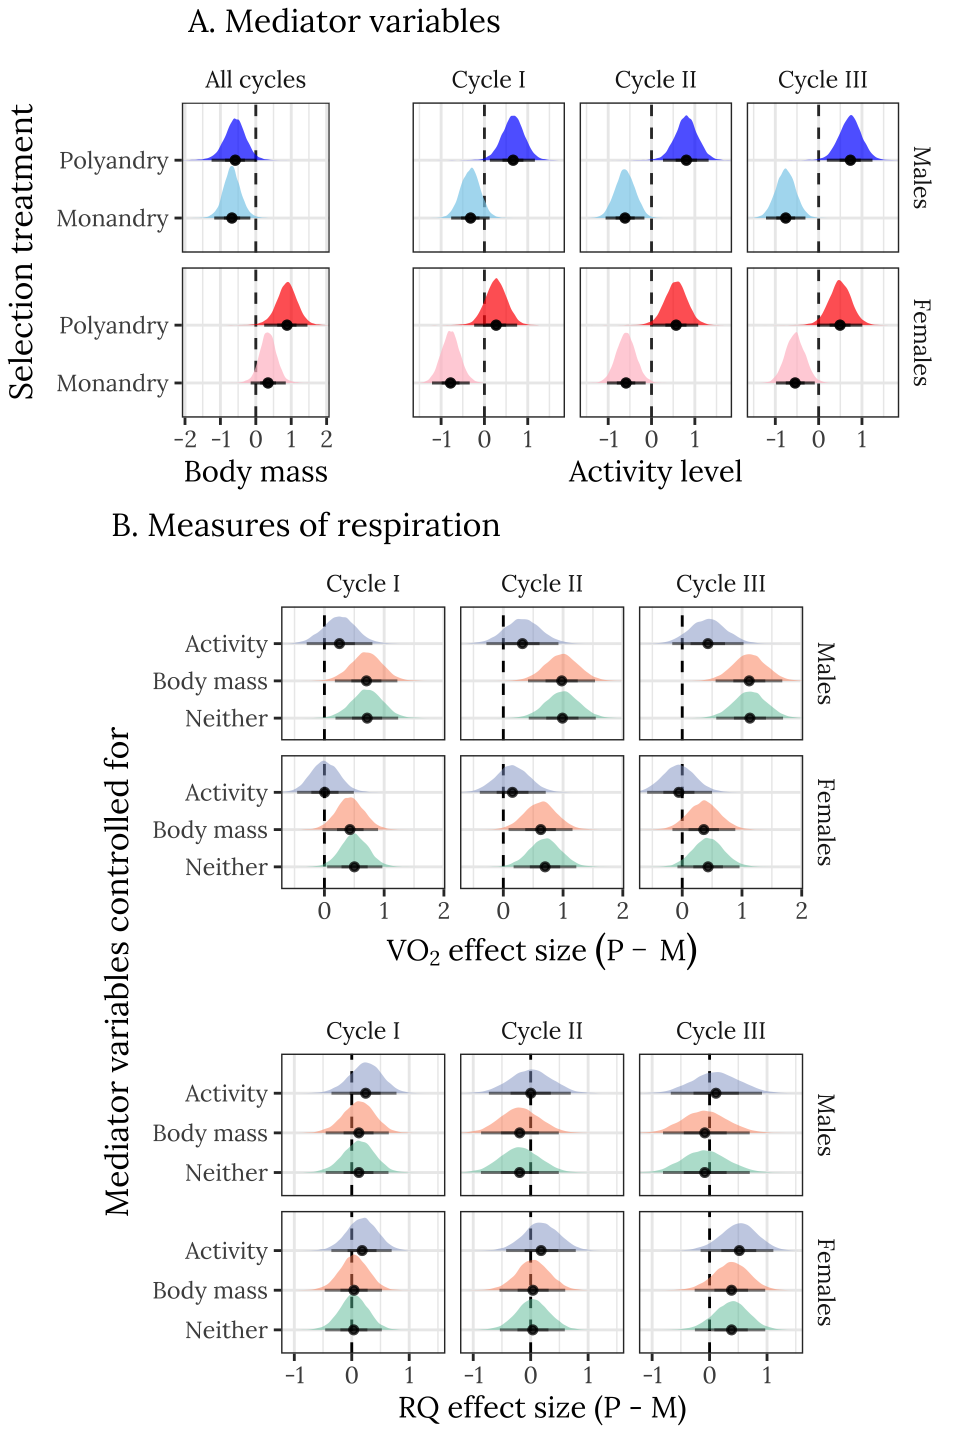
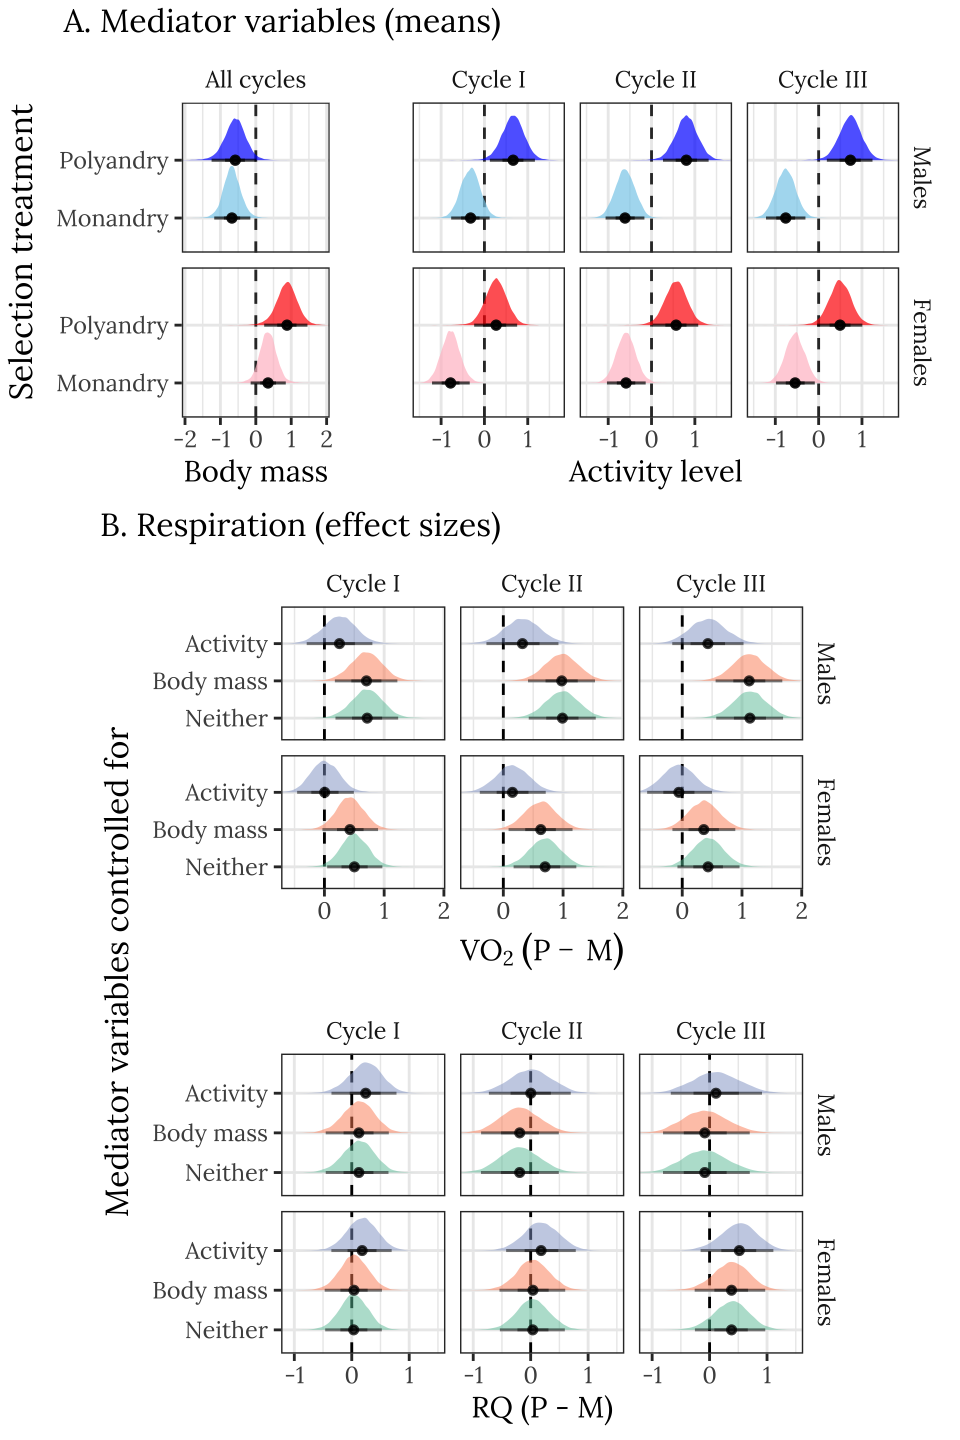
Build site.

diff --git a/docs/respirometry.html b/docs/respirometry.html
@@ -537,16 +537,16 @@ This reproducible <a href="http://rmarkdown.rstudio.com">R Markdown</a> analysis
 <div class="panel panel-default">
 <div class="panel-heading">
 <p class="panel-title">
-<a data-toggle="collapse" data-parent="#workflowr-checks" href="#strongRepositoryversionstrongahrefhttpsgithubcomlukeholmanexpevolrespirationtreecc92e06ab951064b4abf5c1082b96c40ce6f2239targetblankcc92e06a"> <span class="glyphicon glyphicon-ok text-success" aria-hidden="true"></span> <strong>Repository version:</strong> <a href="https://github.com/lukeholman/exp_evol_respiration/tree/cc92e06ab951064b4abf5c1082b96c40ce6f2239" target="_blank">cc92e06</a> </a>
+<a data-toggle="collapse" data-parent="#workflowr-checks" href="#strongRepositoryversionstrongahrefhttpsgithubcomlukeholmanexpevolrespirationtree7dcf48a9a626dbaac2d1da8ad91ae16cef693eactargetblank7dcf48aa"> <span class="glyphicon glyphicon-ok text-success" aria-hidden="true"></span> <strong>Repository version:</strong> <a href="https://github.com/lukeholman/exp_evol_respiration/tree/7dcf48a9a626dbaac2d1da8ad91ae16cef693eac" target="_blank">7dcf48a</a> </a>
 </p>
 </div>
[2 lines of base64/hex data omitted]
 <div class="panel-body">
 <p>
 Great! You are using Git for version control. Tracking code development and connecting the code version to the results is critical for reproducibility.
 </p>
 <p>
-The results in this page were generated with repository version <a href="https://github.com/lukeholman/exp_evol_respiration/tree/cc92e06ab951064b4abf5c1082b96c40ce6f2239" target="_blank">cc92e06</a>. See the <em>Past versions</em> tab to see a history of the changes made to the R Markdown and HTML files.
+The results in this page were generated with repository version <a href="https://github.com/lukeholman/exp_evol_respiration/tree/7dcf48a9a626dbaac2d1da8ad91ae16cef693eac" target="_blank">7dcf48a</a>. See the <em>Past versions</em> tab to see a history of the changes made to the R Markdown and HTML files.
 </p>
 <p>
 Note that you need to be careful to ensure that all relevant files for the analysis have been committed to Git prior to generating the results (you can use <code>wflow_publish</code> or <code>wflow_git_commit</code>). workflowr only checks the R Markdown file, but you know if there are other scripts or data files that it depends on. Below is the status of the Git repository when the results were generated:
@@ -612,6 +612,40 @@ Message
 </tr>
 </thead>
 <tbody>
+<tr>
+<td>
+Rmd
+</td>
+<td>
+<a href="https://github.com/lukeholman/exp_evol_respiration/blob/7dcf48a9a626dbaac2d1da8ad91ae16cef693eac/analysis/respirometry.Rmd" target="_blank">7dcf48a</a>
+</td>
+<td>
+lukeholman
+</td>
+<td>
+2020-12-18
+</td>
+<td>
+Fix pairs plot
+</td>
+</tr>
+<tr>
+<td>
+html
+</td>
+<td>
+<a href="https://rawcdn.githack.com/lukeholman/exp_evol_respiration/2791e70bfba58cbb5318dbbb6a52cb0c9bbccdef/docs/respirometry.html" target="_blank">2791e70</a>
+</td>
+<td>
+lukeholman
+</td>
+<td>
+2020-12-18
+</td>
+<td>
+Build site.
+</td>
+</tr>
 <tr>
 <td>
 Rmd
@@ -2413,6 +2447,17 @@ Date
 <tbody>
 <tr>
 <td>
+<a href="https://github.com/lukeholman/exp_evol_respiration/blob/2791e70bfba58cbb5318dbbb6a52cb0c9bbccdef/docs/figure/respirometry.Rmd/unnamed-chunk-14-1.png" target="_blank">2791e70</a>
+</td>
+<td>
+lukeholman
+</td>
+<td>
+2020-12-18
+</td>
+</tr>
+<tr>
+<td>
 <a href="https://github.com/lukeholman/exp_evol_respiration/blob/a14c3784a106e71d73e04484412547fc29aa1d82/docs/figure/respirometry.Rmd/unnamed-chunk-14-1.png" target="_blank">a14c378</a>
 </td>
 <td>
@@ -3892,7 +3937,7 @@ posterior_effect_size &lt;- post_preds_respiration %&gt;%
           axis.ticks.y = element_blank()) + ylab(NULL),
   nrow = 1, widths = c(0.38, 0.62), 
   left = textGrob(&quot;Selection treatment&quot;, rot = 90, gp=gpar(fontfamily = nice_font)),
-  top = textGrob(&quot;A. Mediator variables&quot;, hjust = 1, gp=gpar(fontfamily = nice_font)) 
+  top = textGrob(&quot;A. Mediator variables (means)&quot;, hjust = 1, gp=gpar(fontfamily = nice_font)) 
 )
 
 p2 &lt;- arrangeGrob(
@@ -3903,7 +3948,7 @@ p2 &lt;- arrangeGrob(
     geom_vline(xintercept = 0, linetype = 2) + 
     stat_halfeyeh(size = 0.5, alpha = 0.5) + 
     facet_grid(SEX ~ CYCLE) +
-    xlab(expression(VO[2]~effect~size~(P~-~M))) + 
+    xlab(expression(VO[2]~(P~-~M))) + 
     ylab(NULL)  +
     scale_fill_brewer(palette = &quot;Set2&quot;) + 
     theme_bw() +
@@ -3919,7 +3964,7 @@ p2 &lt;- arrangeGrob(
     geom_vline(xintercept = 0, linetype = 2) + 
     stat_halfeyeh(size = 0.5, alpha = 0.5) + 
     facet_grid(SEX ~ CYCLE) +
-    xlab(&quot;RQ effect size (P - M)&quot;) + 
+    xlab(&quot;RQ (P - M)&quot;) + 
     ylab(NULL)  +
     scale_fill_brewer(palette = &quot;Set2&quot;) + 
     theme_bw() +
@@ -3930,7 +3975,7 @@ p2 &lt;- arrangeGrob(
           strip.background = element_blank()),
   ncol = 1, 
   left = textGrob(&quot;Mediator variables controlled for&quot;, rot = 90, gp=gpar(fontfamily = nice_font)),
-  top = textGrob(&quot;B. Measures of respiration&quot;, hjust = 1, gp=gpar(fontfamily = nice_font)) 
+  top = textGrob(&quot;B. Respiration (effect sizes)&quot;, hjust = 1, gp=gpar(fontfamily = nice_font)) 
 )
 
 p_filler &lt;- ggplot() + theme_void()
@@ -3939,13 +3984,50 @@ grid.arrange(p1,
              arrangeGrob(p_filler, p2, p_filler, 
                          nrow = 1, widths = c(0.1, 0.8, 0.1)), 
              heights = c(0.35, 0.65)) %&gt;%
-  ggsave(&quot;output/respiration_figure.pdf&quot;, plot = ., height = 7.5, width = 5)
+  ggsave(&quot;output/respiration_figure.pdf&quot;, plot = ., height = 8, width = 5)
 
 grid.arrange(p1, 
              arrangeGrob(p_filler, p2, p_filler, 
                          nrow = 1, widths = c(0.1, 0.8, 0.1)), 
              heights = c(0.35, 0.65)) </code></pre>
 <p><img src="figure/respirometry.Rmd/unnamed-chunk-19-1.png" width="480" style="display: block; margin: auto;" /></p>
+<p>
+<button type="button" class="btn btn-default btn-xs btn-workflowr btn-workflowr-fig" data-toggle="collapse" data-target="#fig-unnamed-chunk-19-1">
+Past versions of unnamed-chunk-19-1.png
+</button>
+</p>
+<div id="fig-unnamed-chunk-19-1" class="collapse">
+<div class="table-responsive">
+<table class="table table-condensed table-hover">
+<thead>
+<tr>
+<th>
+Version
+</th>
+<th>
+Author
+</th>
+<th>
+Date
+</th>
+</tr>
+</thead>
+<tbody>
+<tr>
+<td>
+<a href="https://github.com/lukeholman/exp_evol_respiration/blob/2791e70bfba58cbb5318dbbb6a52cb0c9bbccdef/docs/figure/respirometry.Rmd/unnamed-chunk-19-1.png" target="_blank">2791e70</a>
+</td>
+<td>
+lukeholman
+</td>
+<td>
+2020-12-18
+</td>
+</tr>
+</tbody>
+</table>
+</div>
+</div>
 </div>
 <div id="tables" class="section level4">
 <h4>Tables</h4>
